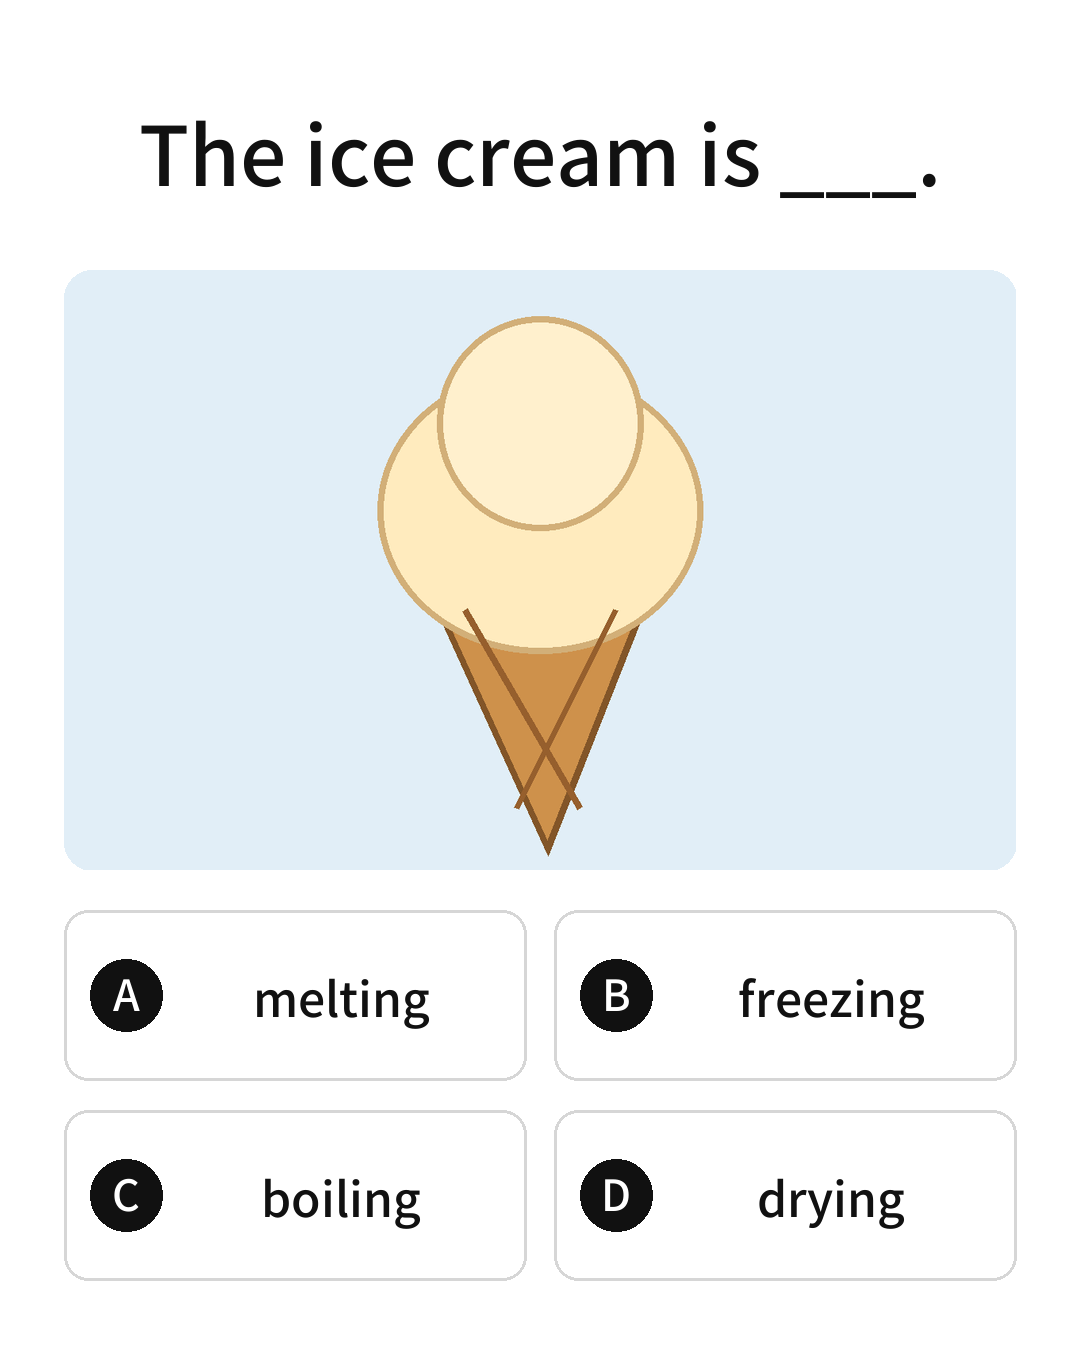
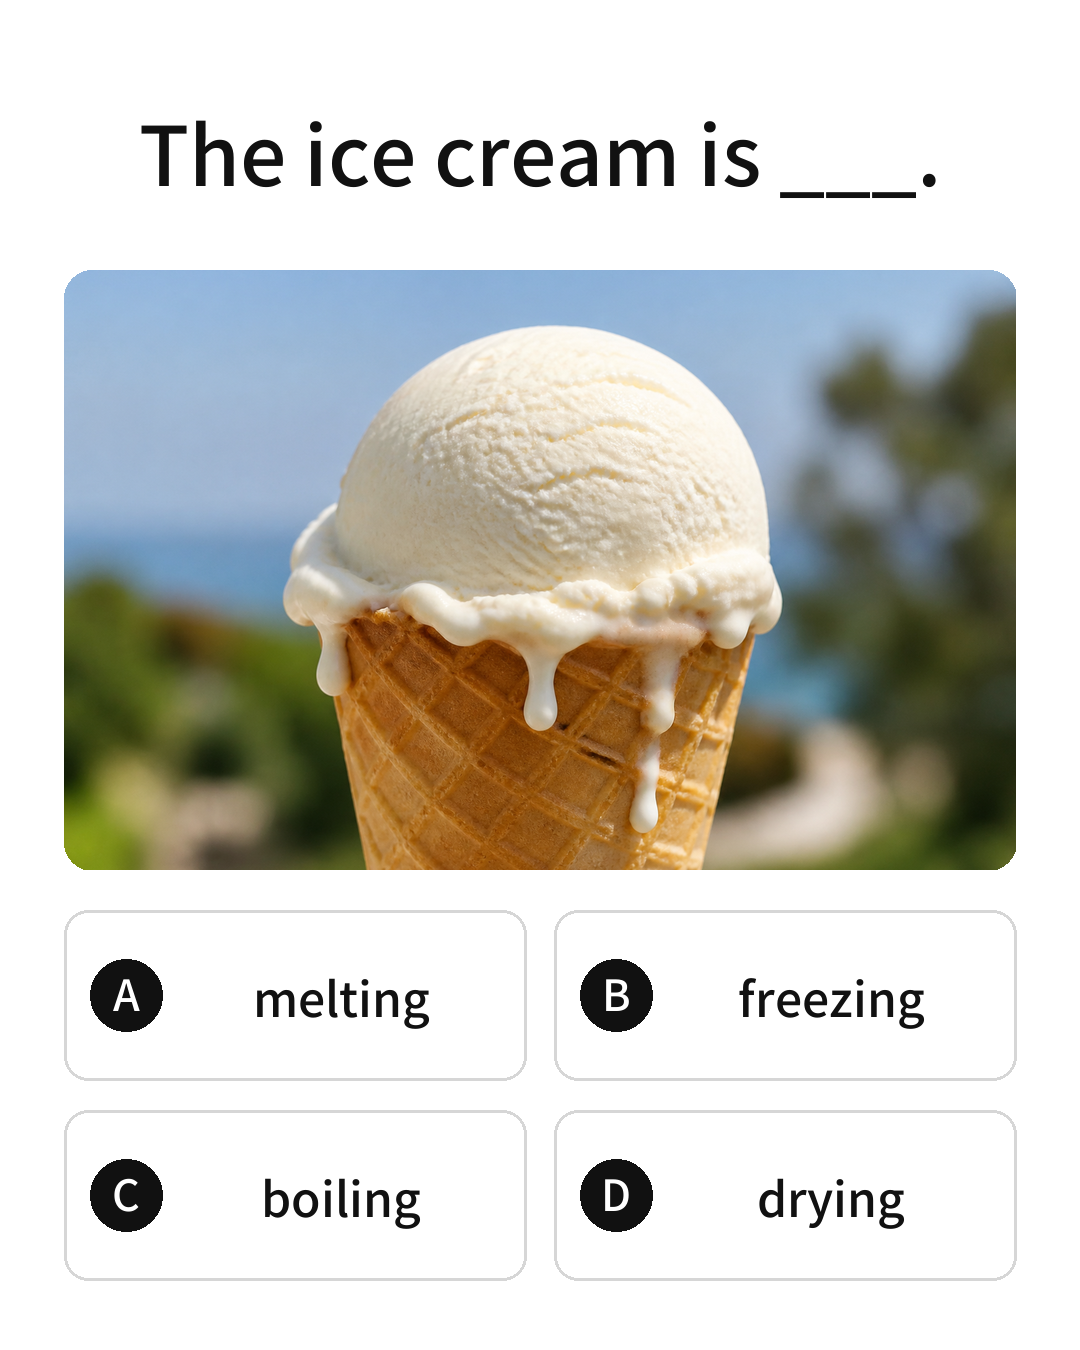
Sync restart learner daily content

diff --git a/tests/test_daily_trial.py b/tests/test_daily_trial.py
@@ -33,11 +33,12 @@ class DailyTrialTests(unittest.TestCase):
         instagram_normal = (instagram_dir / "normal" / "ENG-100002.json").read_bytes()
         self.assertEqual(local_normal, instagram_normal)
 
-    def test_visual_quiz_waits_without_dummy_image(self):
-        queue = build_quiz_queue("ENG-000008")
-        self.assertIsNone(queue["question_image"])
-        self.assertEqual(queue["parent_status"], "WAITING_FOR_VISUAL")
-        self.assertEqual(queue["answer_status"], "WAITING_FOR_PARENT")
+    def test_two_visual_quizzes_use_explicit_shared_images(self):
+        for content_id in ("ENG-000008", "ENG-000010"):
+            queue = build_quiz_queue(content_id)
+            self.assertEqual(queue["question_image"], f"assets/question_images/{content_id}-question.png")
+            self.assertEqual(queue["parent_status"], "pending")
+            self.assertEqual(queue["answer_status"], "pending")
 
     def test_ready_quiz_and_normal_dry_runs(self):
         quiz_text = format_dry_run(build_quiz_queue("ENG-000006"))

diff --git a/README.md b/README.md
@@ -64,3 +64,7 @@ Meta / Threads API投稿、GitHub Actions、Codex Automation、AI生成、分析
 `ENG-000006`〜`ENG-000011` はInstagramと同一のquizマスターからThreads表示へ変換し、`ENG-100002` は同一normalマスターから通常投稿へ変換します。既存の `scripts/build_queue.py` と `scripts/dry_run.py` で確認できます。
 
 画像素材がまだないquizはダミー画像や別パスを探索せず、`question_image: null`、`parent_status: WAITING_FOR_VISUAL` で停止します。Threads専用AIレビューは追加せず、共通の7件一括レビュー結果を利用します。
+
+完成済みのvisual問題はInstagramのPillowレンダラーが生成した同一問題画像を `assets/question_images/` へ明示投入します。Phase 3試作では `ENG-000008` と `ENG-000010` がこの状態で、Threads用の別画像は生成しません。
+
+コンテンツの最上位ペルソナは「英語学習に一度挫折し、基礎からやり直したい日本人社会人」です。難化、資格試験的なひっかけ、長い質問と長い回答の比較を品質とは扱いません。Instagram側の `config/content_quality.json` と共通一括レビュー結果を正とし、Threads側で難しい説明や別問題を追加しません。
